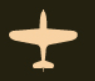
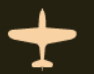
se actualiza lobby / img tipo avion

Changed region(s): [[0.0851, 0.1081, 0.8298, 0.973]]

diff --git a/WebContent/src/scenes/LobbyGameScene.js b/WebContent/src/scenes/LobbyGameScene.js
@@ -1,8 +1,7 @@
 import { context } from '../../src/main.js';
 
 
-let playerName;
-let tokenGame;
+
 
 export class LobbyGameScene extends Phaser.Scene {
 	
@@ -13,6 +12,7 @@ export class LobbyGameScene extends Phaser.Scene {
 	preload() {
         console.log('FROM LOBBY GAME');
 
+		this.add.image(0, 0, 'background_menu').setOrigin(0);
 		this.load.image("plane-type1", "assets/plane-type1.png");
         this.load.image("plane-type2", "assets/plane-type2.png");
         this.load.image("plane-type3", "assets/plane-type3.png");
@@ -23,54 +23,47 @@ export class LobbyGameScene extends Phaser.Scene {
 		// tokenGame.setText(context.gameSession.gameId);
 
 	}
+
+	plane1Type = 1;
+	plane2Type = 1;
+	plane3Type = 1;
+	plane4Type = 1;
 	
 	create() {
 		context.currentScene = 'LOBBYGAME';
 		console.log(context.playerSession);
 
-		const style = { font: "bold 32px Arial", fill: "#fff" };
-  		this.add.text(0, 0, `Game Token: ${context.playerSession.gameId}`, style);
-		this.add.text(0, 30, `Player Name: ${context.playerSession.name}`, style);
+		const style = { font: "bold 25px Arial", fill: "#fff" };
+  		this.add.text(1, 1, `Game Token: ${context.playerSession.gameId}`, style);
+		this.add.text(1, 35, `Player Name: ${context.playerSession.name}`, style);
 
-		var plane1Type = 1;
-		var plane2Type = 1;
-		var plane3Type = 1;
-		var plane4Type = 1;
+		
+		this.add.text(300, 90, `Select planes type`, style);
+		/***   se incorpora boton para tipo avion 1   ***/
+		var plane1TypeButton = this.add.image(context.game.renderer.width * 0.35, context.game.renderer.height * 0.30, this.getTypeImage(this.plane1Type)).setDepth(0)
+								.setInteractive()
+								.on('pointerdown', () => this.updatPlane1(this.plane1Type));
 
-		//se incorporan botones avion 1
-        var plane1Type1Button = this.add.image(context.game.renderer.width * 0.35, context.game.renderer.height * 0.40, "plane-type1").setDepth(0);
-        plane1Type1Button.setInteractive();
+		/***   se incorpora boton para tipo avion 2   ***/
+		var plane2TypeButton = this.add.image(context.game.renderer.width * 0.45, context.game.renderer.height * 0.30, this.getTypeImage(this.plane2Type)).setDepth(0)
+								.setInteractive()
+								.on('pointerdown', () => this.updatPlane2(this.plane2Type));
 
-        var plane1Type2Button = this.add.image(context.game.renderer.width * 0.45, context.game.renderer.height * 0.40, "plane-type2").setDepth(0);
-        plane1Type2Button.setInteractive();
-
-		var plane1Type3Button = this.add.image(context.game.renderer.width * 0.55, context.game.renderer.height * 0.40, "plane-type3").setDepth(0);
-        plane1Type3Button.setInteractive();
-
-		var plane1Type4Button = this.add.image(context.game.renderer.width * 0.65, context.game.renderer.height * 0.40, "plane-type4").setDepth(0);
-        plane1Type4Button.setInteractive();
-
-        plane1Type1Button.on('pointerdown', function () {
-			//this.style.border = "2px solid red";
-            plane1Type = 1
-        }, this);
-
-		plane1Type2Button.on('pointerdown', function () {
-            plane1Type = 2
-        }, this);
-
-		plane1Type3Button.on('pointerdown', function () {
-            plane1Type = 3
-        }, this);
-
-		plane1Type4Button.on('pointerdown', function () {
-            plane1Type = 4
-        }, this);
+		/***   se incorpora boton para tipo avion 3   ***/
+		var plane3TypeButton = this.add.image(context.game.renderer.width * 0.55, context.game.renderer.height * 0.30, this.getTypeImage(this.plane3Type)).setDepth(0)
+								.setInteractive()
+								.on('pointerdown', () => this.updatPlane3(this.plane3Type));
 
 
-		var planesType = [plane1Type, plane2Type, plane3Type, plane4Type];
+		/***   se incorpora boton para tipo avion 4  ***/
+		var plane4TypeButton = this.add.image(context.game.renderer.width * 0.65, context.game.renderer.height * 0.30, this.getTypeImage(this.plane4Type)).setDepth(0)
+								.setInteractive()
+								.on('pointerdown', () => this.updatPlane4(this.plane4Type));
 
-		var joinGameButton = this.add.image(context.game.renderer.width * 0.80, context.game.renderer.height * 0.80, "joingame_font").setDepth(0);
+		// se cargan tipos de avion
+		var planesType = [this.plane1Type, this.plane2Type, this.plane3Type, this.plane4Type];
+
+		var joinGameButton = this.add.image(context.game.renderer.width * 0.90, context.game.renderer.height * 0.90, "joingame_font").setDepth(0);
         joinGameButton.setInteractive();
 		
         joinGameButton.on('pointerdown', function () {
@@ -92,6 +85,76 @@ export class LobbyGameScene extends Phaser.Scene {
 			
         }, this);
 		
+		
 	}
 
+	update() {
+		this.add.image(context.game.renderer.width * 0.35, context.game.renderer.height * 0.30, this.getTypeImage(this.plane1Type)).setDepth(0);
+		this.add.image(context.game.renderer.width * 0.45, context.game.renderer.height * 0.30, this.getTypeImage(this.plane2Type)).setDepth(0);
+		this.add.image(context.game.renderer.width * 0.55, context.game.renderer.height * 0.30, this.getTypeImage(this.plane3Type)).setDepth(0);
+		this.add.image(context.game.renderer.width * 0.65, context.game.renderer.height * 0.30, this.getTypeImage(this.plane4Type)).setDepth(0);
+	}
+
+	updatPlane1(type) {
+		if (type  == 1) {
+			this.plane1Type = 2;
+		} else if (type == 2) {
+			this.plane1Type = 3;
+		} else if (type == 3) {
+			this.plane1Type = 4;
+		} else if (type == 4) {
+			this.plane1Type = 1;
+		}
+	}
+
+	updatPlane2(type) {
+		if (type  == 1) {
+			this.plane2Type = 2;
+		} else if (type == 2) {
+			this.plane2Type = 3;
+		} else if (type == 3) {
+			this.plane2Type = 4;
+		} else if (type == 4) {
+			this.plane2Type = 1;
+		}
+	}
+
+	updatPlane3(type) {
+		if (type  == 1) {
+			this.plane3Type = 2;
+		} else if (type == 2) {
+			this.plane3Type = 3;
+		} else if (type == 3) {
+			this.plane3Type = 4;
+		} else if (type == 4) {
+			this.plane3Type = 1;
+		}
+	}
+
+	updatPlane4(type) {
+		if (type  == 1) {
+			this.plane4Type = 2;
+		} else if (type == 2) {
+			this.plane4Type = 3;
+		} else if (type == 3) {
+			this.plane4Type = 4;
+		} else if (type == 4) {
+			this.plane4Type = 1;
+		}
+	}
+	getTypeImage(planeNumber) {
+
+		var imageName = "plane-type1";
+		if (planeNumber  == 1) {
+			imageName = "plane-type1";
+		} else if (planeNumber == 2) {
+			imageName = "plane-type2";
+		} else if (planeNumber == 3) {
+			imageName = "plane-type3";
+		} else if (planeNumber == 4) {
+			imageName = "plane-type4";
+		}
+
+		return imageName;
+	}
 }
